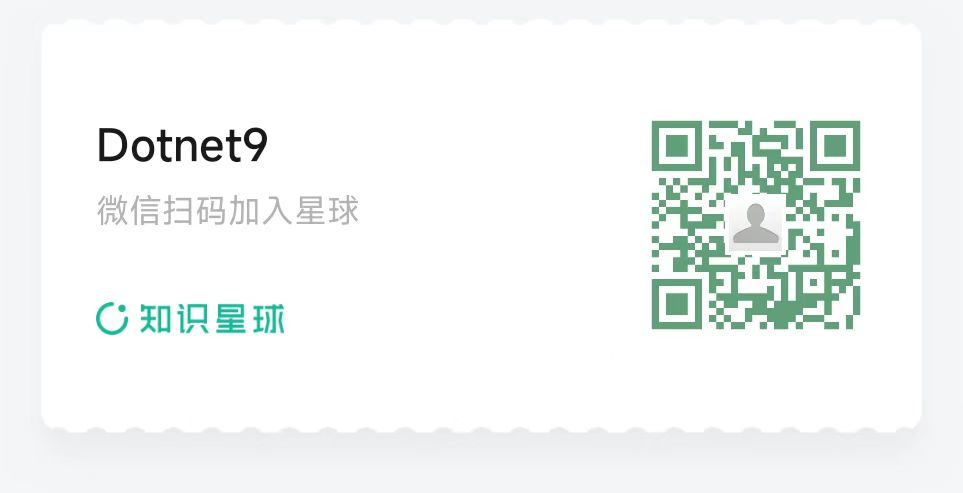
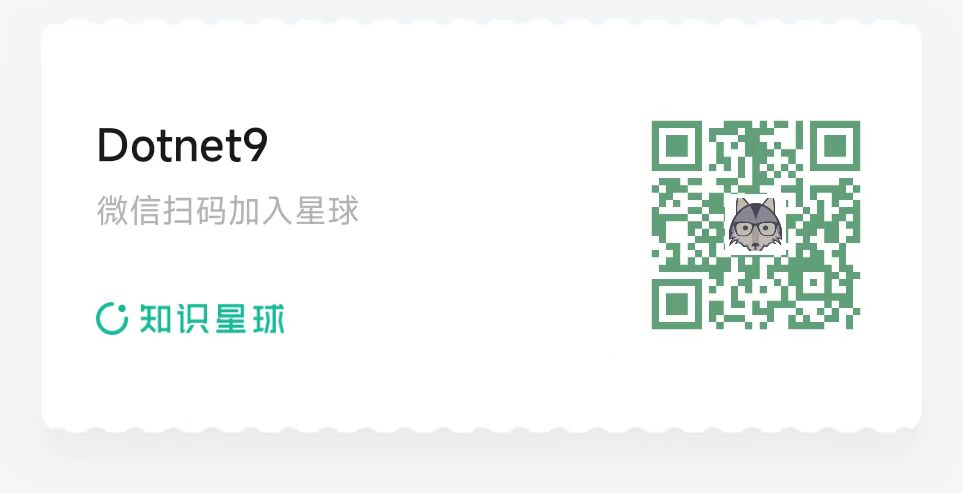
修改知识星球图标；

Changed region(s): [[0.6542, 0.2434, 0.9034, 0.6694]]

diff --git a/2023/03/Web-API-interface-returns-posture-understanding-of-implementation-class-collection.md b/2023/03/Web-API-interface-returns-posture-understanding-of-implementation-class-collection.md
@@ -142,3 +142,8 @@ public abstract class PersonBase
 上面两种方式看.NET版本选择，第二种方式需要您明确知道子类类型，详细使用请看微软文档：[如何使用System.Text.Json序列化派生类的属性](https://learn.microsoft.com/zh-cn/dotnet/standard/serialization/system-text-json/polymorphism?pivots=dotnet-7-0)
 
 如果您有更好的方式欢迎留言探讨。
+
+- 微信技术交流群：添加微信（dotnet9com）备注“入群”
+- QQ技术交流群：771992300。
+
+![](https://img1.dotnet9.com/site/knowledgeplanet_youhui.png)
